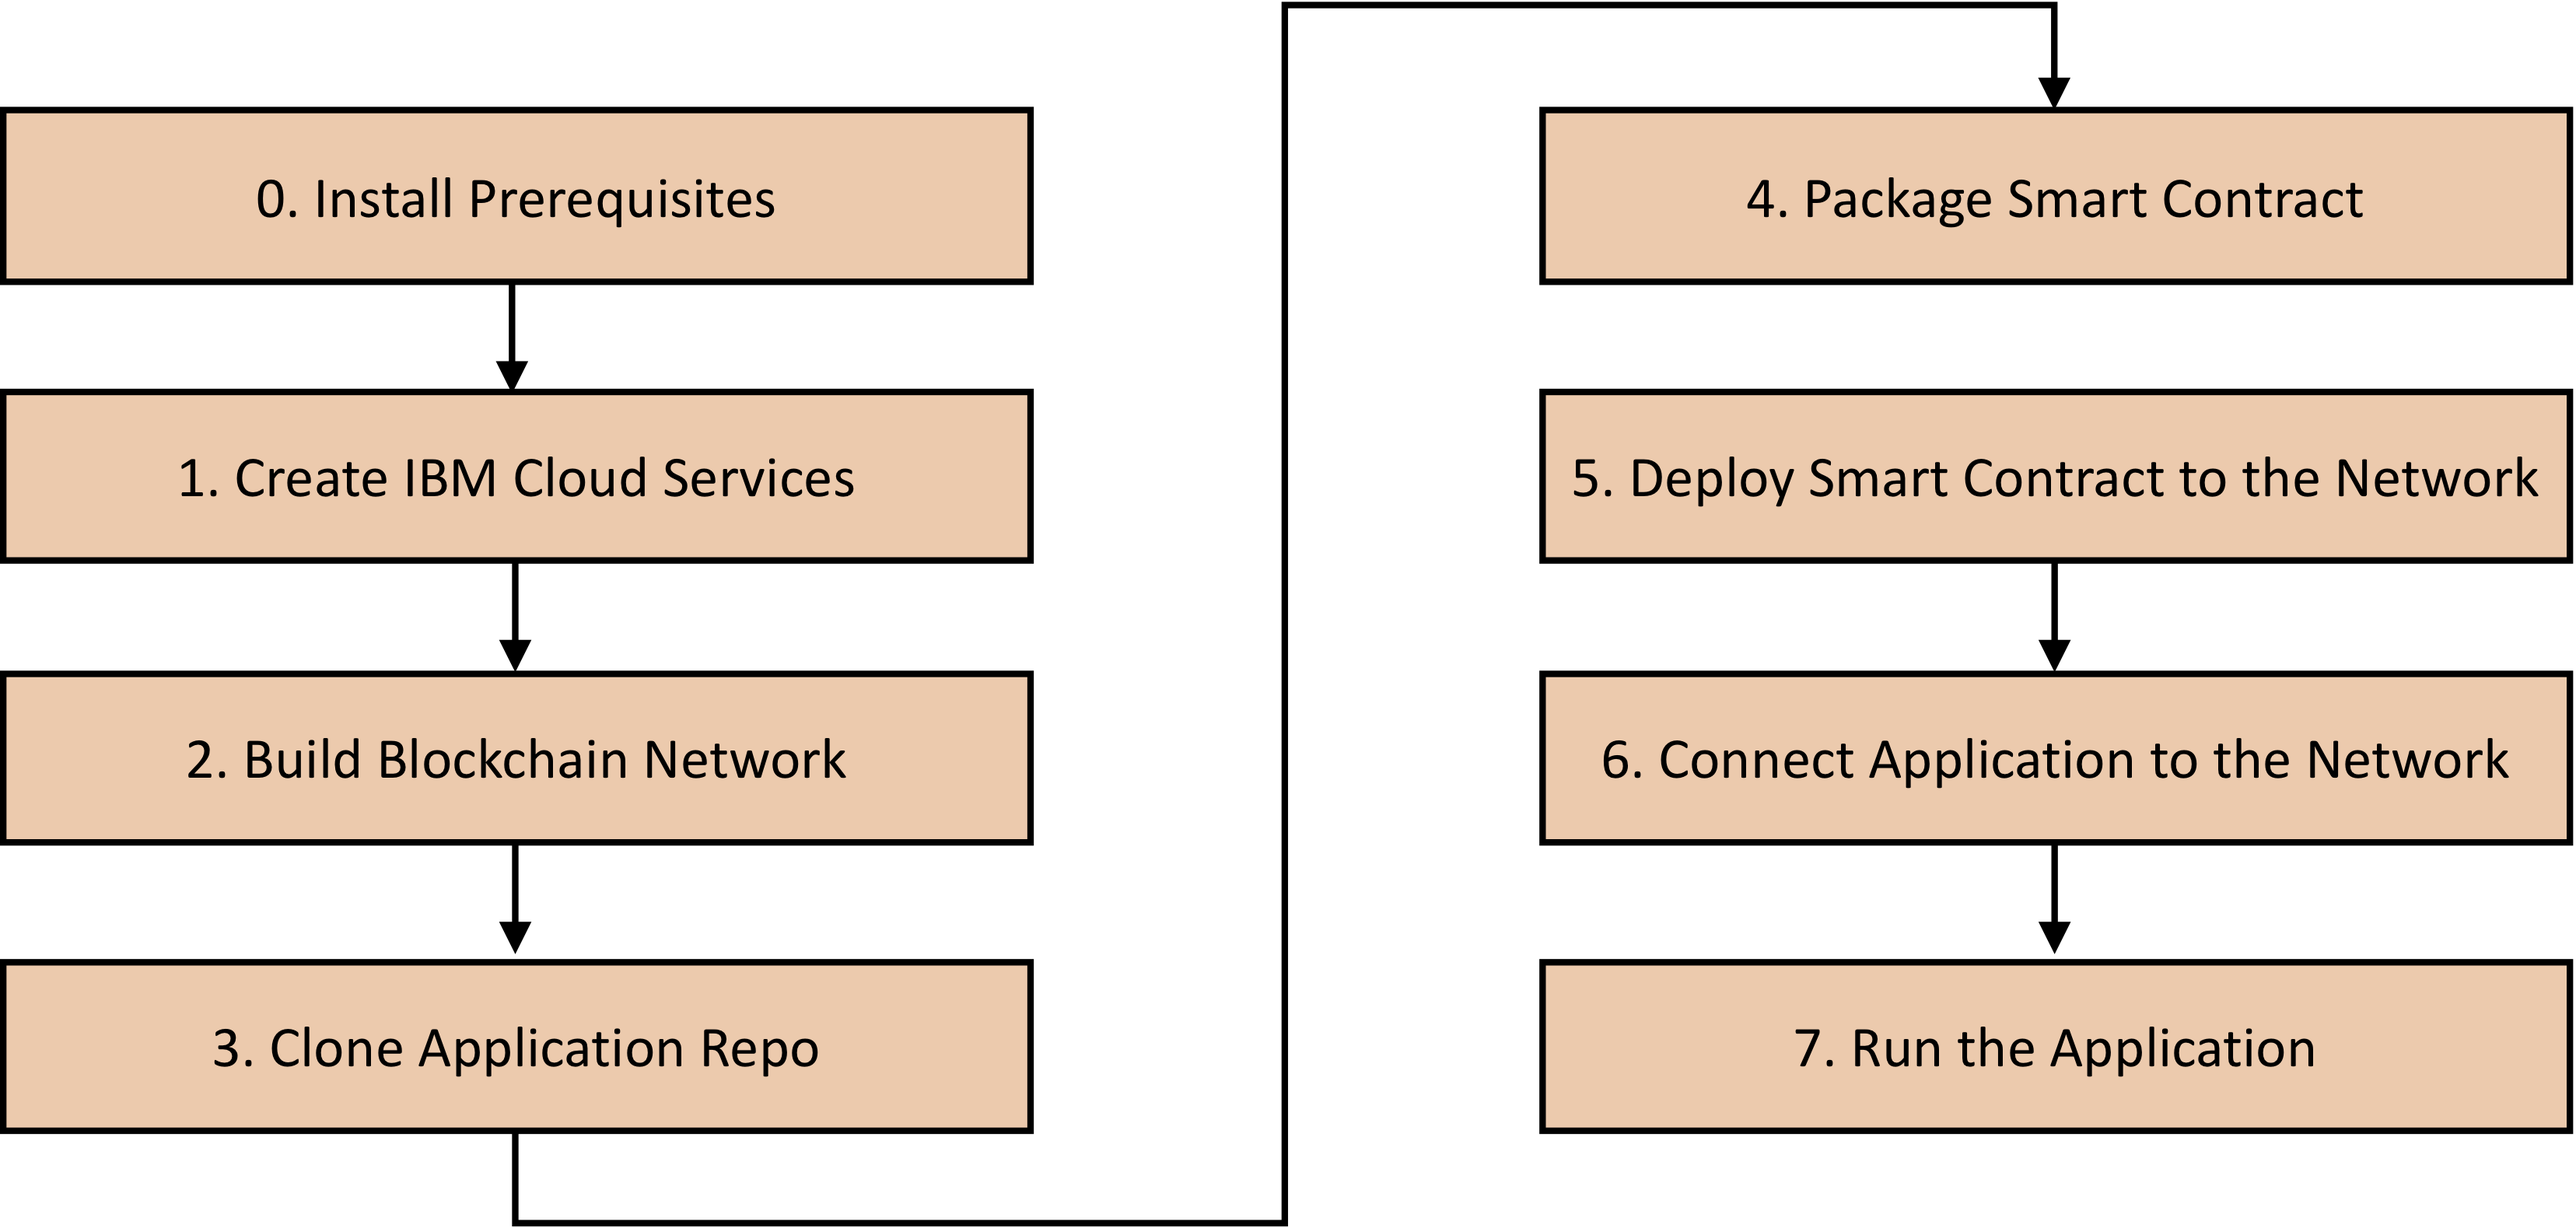
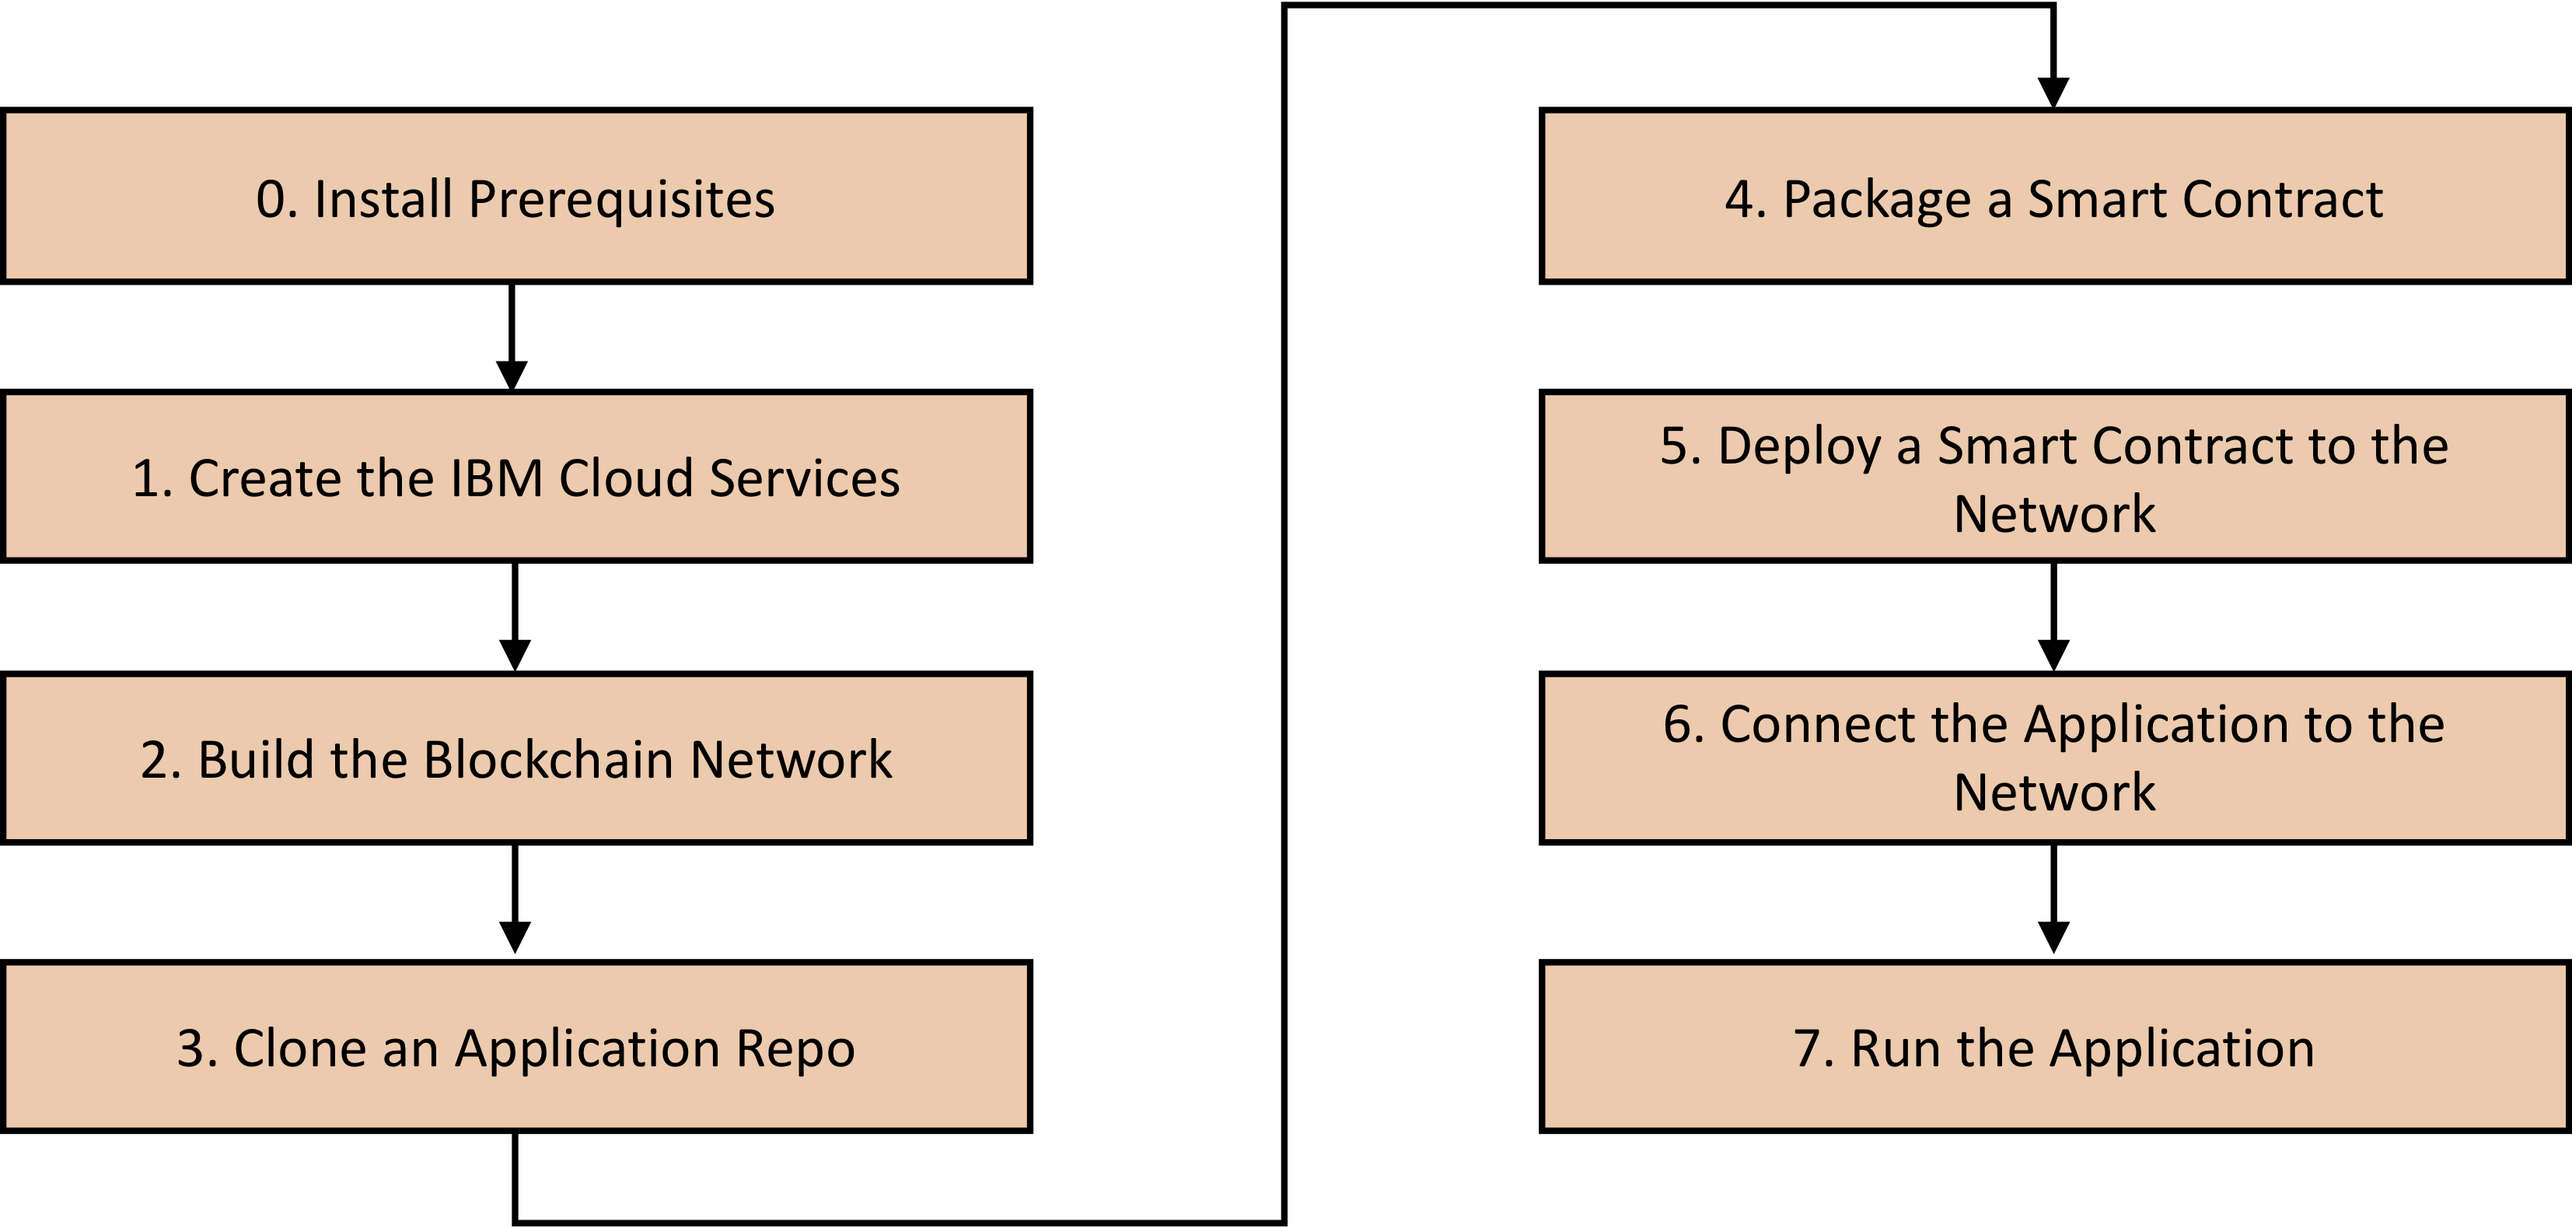
New steps again

diff --git a/README.md b/README.md
@@ -10,6 +10,13 @@ IBM Blockchain Platform is currently in free beta so this tutorial applies to th
 IBM Blockchain Platform v2 differs from v1 in that it is now deployed into Kubernetes clusters using the IBM Kubernetes Service (IKS). This is good news and bad news. Whilst you get far more control of the underlying container resources it also means you need a greater understanding of: Kubernetes, Docker (one of the container technologies that Kubernetes supports) as well as the IBM Cloud command line interface. The prerequisites step ensures you have all the tools and command lines you need to use these technologies.
 
 - [Step 0 - Install Prerequisites](docs/prereqs.md)
+- [Step 1 - Create IBM Cloud Services](docs/cloudservices.md)
+- [Step 2 - Build the Blockchain Network](docs/buildnetwork.md)
+- [Step 3 - Clone an Application Repo](docs/clonerepo.md)
+- [Step 4 - Package a Smart Contract](docs/packagesc.md)
+- [Step 5 - Deploy a Smart Contract to the  Network](docs/deploysc.md)
+- [Step 6 - Connect the Application to the Network](docs/connectnetwork.md)
+- [Step 7 - Run the Application](docs/runapp.md)
 
 If you have everything set up correctly you should see this screen showing information on your Kubernetes cluster...
 

diff --git a/docs/cloudservices.md b/docs/cloudservices.md
@@ -1,0 +1,3 @@
+# Step 1 - Create IBM Cloud Services
+
+Now you have a Kubernetes service up and running you can move to [Step 2 - Build the Blockchain Network](../docs/buildnetwork.md)

diff --git a/docs/prereqs.md b/docs/prereqs.md
@@ -1,4 +1,4 @@
-# Step 0. Prerequisites
+# Step 0 - Prerequisites
 
 Here are some resources to help with that:
 

diff --git a/docs/buildnetwork.md b/docs/buildnetwork.md
@@ -1,0 +1,1 @@
+# Step 2 - Build the Blockchain Network
